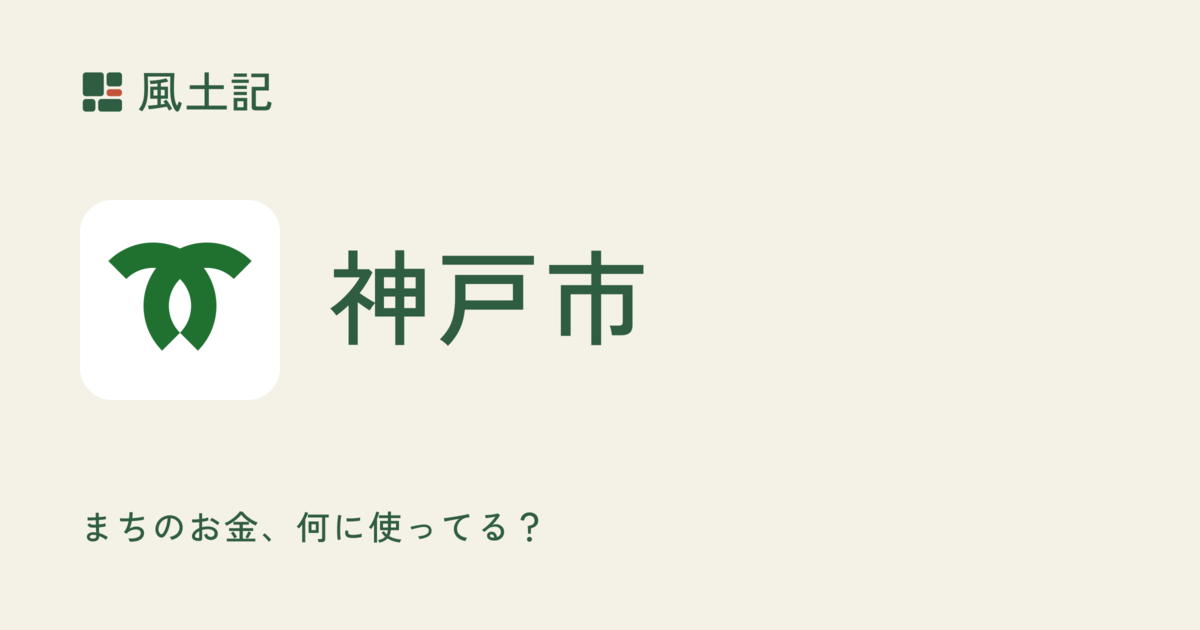
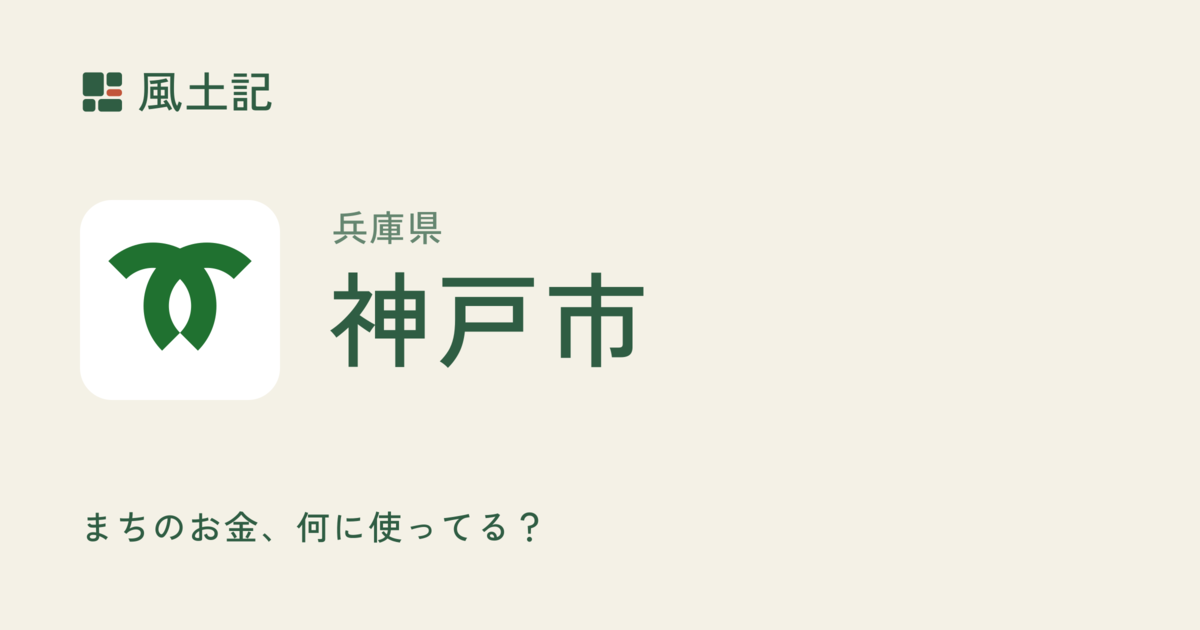
fix(web): OG 画像の都道府県名を prefecture_master から引き、og:image の差し替えを検査する
Claude-Session: https://claude.ai/code/session_01LjGAVhqv9gX8r2qcvwR25S

Changed region(s): [[0.2775, 0.3317, 0.555, 0.573]]

diff --git a/apps/web/server/jurisdiction.test.ts b/apps/web/server/jurisdiction.test.ts
@@ -127,6 +127,9 @@ describe('自治体の個別ページ', () => {
     expect(pageHead({ ...data, budgets: [{ ...budget, amountMissing: true as const }] }).title).toBe(head.title)
     expect(pageHead({ ...data, budgets: [{ ...budget, yen: 0 }] }).title).toBe(head.title)
     expect(canonical(head)).toBe('https://fudoki.dev/tokyo/nakano')
+    // 紋章のある自治体は og:image を自治体の画像に差し替え、無い自治体は全頁共通の画像のまま
+    expect(head.meta).toContainEqual({ property: 'og:image', content: 'https://fudoki.dev/jurisdictions/131148/og.png' })
+    expect(pageHead({ ...data, code: '999999' }).meta.some((m) => m.property === 'og:image')).toBe(false)
     const ld = JSON.parse(head.script![0]!.innerHTML!) as { '@type': string; itemListElement?: { position: number; name: string; item: string }[] }[]
     expect(ld.find((x) => x['@type'] === 'BreadcrumbList')?.itemListElement?.map((x) => [x.position, x.name, x.item])).toEqual([
       [1, '風土記', 'https://fudoki.dev/'],

diff --git a/apps/web/brand/og_jurisdictions.py b/apps/web/brand/og_jurisdictions.py
@@ -5,6 +5,7 @@
 """
 
 import base64
+import csv
 import json
 import subprocess
 import tempfile
@@ -18,6 +19,9 @@ PUBLIC = HERE.parent / "public"
 CONFIG = json.loads((HERE / "config.json").read_text())
 INK, PAPER, WEIGHT = CONFIG["ink"], CONFIG["paper"], CONFIG["weight"]
 JURISDICTIONS = json.loads((ROOT / "packages/jurisdictions/jurisdictions.json").read_text())["jurisdictions"]
+# 都道府県名の正本は pipeline の prefecture_master（カタログに無い都道府県もあるため、自治体マスタからは引かない）
+with (ROOT / "pipeline/dbt/seeds/jurisdiction/prefecture_master.csv").open(encoding="utf-8") as f:
+    PREFECTURES = {row["prefecture_code"]: row["prefecture_name"] for row in csv.DictReader(f)}
 TAGLINE = "まちのお金、何に使ってる？"
 OW, OH, LEFT = 1200, 630, 80
 EMBLEM_BOX, EMBLEM_Y = 200, 200
@@ -46,9 +50,7 @@ def text_width(s: str, size: float, found: dict, tracking: float = 0.04) -> floa
 
 def prefecture_of(code: str) -> str | None:
     """市区町村なら都道府県名を返す。都道府県そのもの（3〜5桁目が000）は None"""
-    if code[2:5] == "000":
-        return None
-    return JURISDICTIONS[f"{code[:2]}0001"]["name"] if f"{code[:2]}0001" in JURISDICTIONS else None
+    return None if code[2:5] == "000" else PREFECTURES[code[:2]]
 
 
 def og_svg(code: str, found: dict, logo: str) -> str:

diff --git a/docs/marketing/plan.md b/docs/marketing/plan.md
@@ -201,7 +201,7 @@
 | --- | --- | --- |
 | 集める | 自治体の頁の title・説明文 | 済み（#457） |
 | 集める | 年度ごとの URL | 済み（#459） |
-| 集める | 自治体ごとの OG 画像 | 今 |
+| 集める | 自治体ごとの OG 画像 | 今（#462） |
 | 集める | 新しく始まる事業の頁 | 次 |
 | 集める | 「◯◯区 vs ◯◯区」の比較の頁 | 後（評価に見えない並べ方を先に決める） |
 | 集める | 技術記事（月1〜2本） | 今 |
